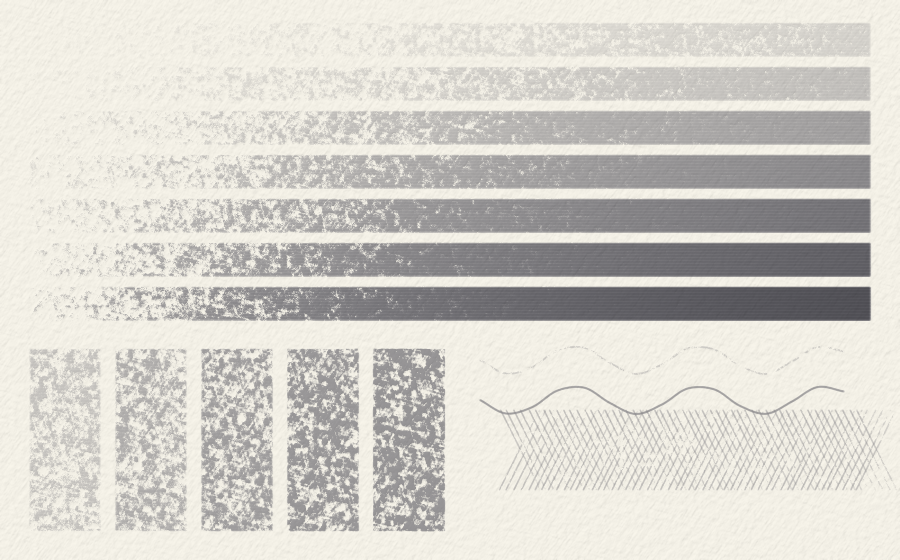
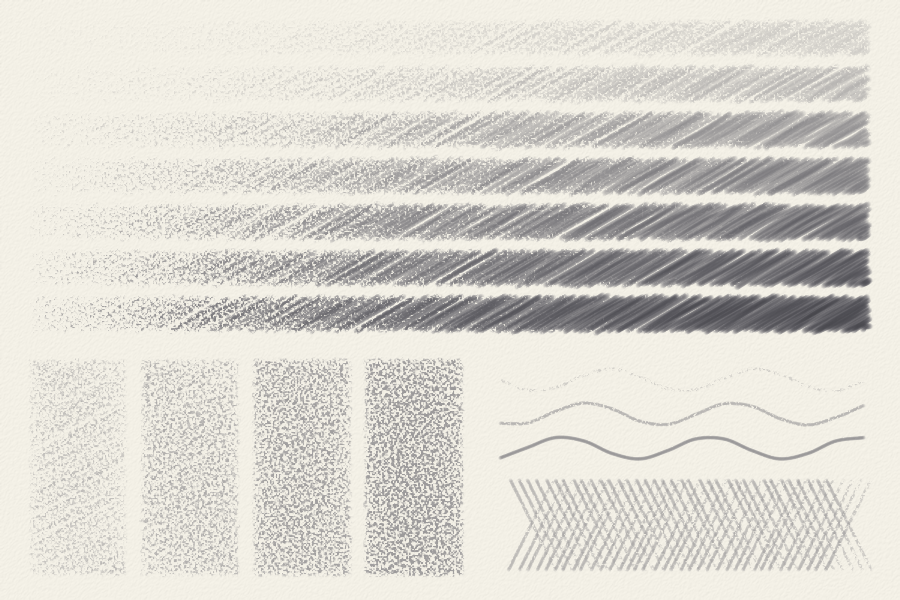
Give wove paper a fine, even tooth, so that shading looks like pencil
Shaded areas came out in blotches: the tooth had patches several grains
across, so the blobs of grain (5 px on average, up to 11) were wider
than the 3 px pencil that drew them. On real paper the tooth is finer
than a pencil line.

- Wove tooth: bumps about a grain apart with short fibres through them,
  and nothing broader. The runs of covered pixels are now about a grain
  wide, and the tooth averaged over a pencil's width is level.
- Scale: a pencil line is two or three grains wide. Default stroke
  width 4 px (was 2); the lamp shows the finer tooth as faintly as
  before (TOOTH_HEIGHT 0.12).
- examples/pencils.py shades as a hand does: strokes side by side at an
  angle, none quite straight or alike, lighter where the pencil lands
  and lifts. A library helper for this is filed as fusain-ujg.

Tones are unchanged: one layer of HB is 0.82 at a light pressure and
0.40 at full pressure (0.84 and 0.40 before).

Claude-Session: https://claude.ai/code/session_01EHReoi1LTNPtq461jGULpV

diff --git a/examples/pencils.py b/examples/pencils.py
@@ -5,8 +5,9 @@ Run from the repository root: ``python examples/pencils.py``. Writes
 
 * top, one band per grade (4H, 2H, HB, 2B, 4B, 6B, 8B from the top), shaded
   with the pressure rising from left to right;
-* bottom left, HB at a light pressure in 1, 2, 4, 8 and 16 layers;
-* bottom right, lines: a 2B drawn lightly then firmly, and cross-hatching.
+* bottom left, HB at a light pressure in 1, 2, 4 and 8 layers, each layer at
+  another angle;
+* bottom right, 2B lines drawn lightly, firmly and hard, and cross-hatching.
 """
 
 from __future__ import annotations
@@ -18,43 +19,71 @@ import numpy as np
 from fusain import Sheet, papers, pencils
 
 GRADES = ("4H", "2H", "HB", "2B", "4B", "6B", "8B")
+#: Width of the pencil's tip, in pixels: about two grains of the paper.
+TIP = 6.0
 
 
-def shade(sheet, medium, pressure, x0, y0, x1, y1, width=3.0, gap=1.5) -> None:
-    """One even layer over a rectangle: strokes side by side, overlapping."""
-    for y in np.arange(y0, y1 + 0.5 * gap, gap):
-        sheet.stroke([(x0, y), (x1, y)], medium, pressure=pressure, width=width)
+def shade(sheet, medium, pressure, box, rng, angle=30.0, width=TIP) -> None:
+    """Shade the rectangle ``box`` (x0, y0, x1, y1) as a hand does: strokes
+    side by side at about ``angle`` degrees, none quite straight or quite
+    alike, each lighter where the pencil lands and where it lifts.
+    ``pressure`` is a number, or a function of x (0 at the left of the box,
+    1 at its right)."""
+    x0, y0, x1, y1 = box
+    turn = np.radians(angle)
+    along = np.array([np.cos(turn), -np.sin(turn)])
+    across = np.array([np.sin(turn), np.cos(turn)])
+    centre = np.array([0.5 * (x0 + x1), 0.5 * (y0 + y1)])
+    reach = 0.5 * np.hypot(x1 - x0, y1 - y0)
+    for offset in np.arange(-reach, reach, 0.55 * width):
+        line = centre + (offset + rng.normal(0, 0.15 * width)) * across
+        ends = [line + s * along for s in np.linspace(-reach, reach, 200)]
+        inside = [p for p in ends if x0 <= p[0] <= x1 and y0 <= p[1] <= y1]
+        if len(inside) < 3:
+            continue
+        start, end = inside[0], inside[-1]
+        knots = max(int(np.hypot(*(end - start)) / 25), 2)
+        path = [
+            start + (end - start) * k / knots + rng.normal(0, 0.1 * width, 2)
+            for k in range(knots + 1)
+        ]
+        firm = rng.uniform(0.85, 1.15)
+
+        def bearing(u, path=path, firm=firm):
+            x = path[0][0] + (path[-1][0] - path[0][0]) * u
+            wanted = pressure((x - x0) / (x1 - x0)) if callable(pressure) else pressure
+            landing = 0.55 + 0.45 * np.sin(np.pi * np.clip(u, 0.02, 0.98)) ** 0.5
+            return np.clip(wanted * firm * landing, 0.0, 1.0)
+
+        sheet.stroke(
+            path, medium, pressure=bearing, width=width * rng.uniform(0.9, 1.1)
+        )
 
 
 def main() -> None:
-    sheet = Sheet(900, 560, paper=papers.CARTRIDGE, seed=11)
-    for row, name in enumerate(GRADES):
-        top = 24 + row * 44
-        shade(
-            sheet,
-            pencils.grade(name),
-            lambda u: 0.05 + 0.95 * u,
-            30,
-            top,
-            870,
-            top + 32,
-        )
-    for i, layers in enumerate((1, 2, 4, 8, 16)):
-        left = 30 + i * 86
-        for _ in range(layers):
-            shade(sheet, pencils.HB, 0.35, left, 350, left + 70, 530)
+    sheet = Sheet(900, 600, paper=papers.CARTRIDGE, seed=11)
     rng = np.random.default_rng(5)
-    for pressure, top in ((0.25, 360), (0.9, 400)):
-        wave = [(480 + 26 * k, top + 14 * np.sin(k * 1.3)) for k in range(15)]
-        sheet.stroke(wave, pencils.B2, pressure=pressure, width=2.5)
+    for row, name in enumerate(GRADES):
+        top = 20 + row * 46
+        box = (30, top, 870, top + 36)
+        shade(sheet, pencils.grade(name), lambda x: 0.05 + 0.95 * x, box, rng)
+    for i, layers in enumerate((1, 2, 4, 8)):
+        left = 30 + i * 112
+        for layer in range(layers):
+            box = (left, 360, left + 96, 575)
+            shade(sheet, pencils.HB, 0.3, box, rng, angle=30 + 47 * layer)
+    for k, pressure in enumerate((0.2, 0.5, 0.95)):
+        wave = [
+            (500 + 28 * j, 380 + 34 * k + 11 * np.sin(j * 1.2 + k)) for j in range(14)
+        ]
+        sheet.stroke(wave, pencils.B2, pressure=pressure)
     for slant in (1, -1):
-        for x in np.arange(500, 860, 7.0):
-            x += rng.normal(0, 0.8)
+        for x in np.arange(510, 830, 9.0):
+            x += rng.normal(0, 1.0)
             sheet.stroke(
-                [(x, 450 + 40 * slant), (x + 40, 450 - 40 * slant)],
+                [(x, 525 + 45 * slant), (x + 45, 525 - 45 * slant)],
                 pencils.HB,
-                pressure=lambda u: 0.7 - 0.4 * u,
-                width=2.0,
+                pressure=lambda u: 0.75 - 0.45 * u,
             )
     out = Path(__file__).parent / "output" / "pencils.png"
     sheet.save(str(out))

diff --git a/fusain/paper.py b/fusain/paper.py
@@ -9,6 +9,7 @@ import numpy as np
 from murex import ColorLike
 from murex import noise as nz
 from murex import spectral as sp
+from murex.filters import box_blur
 
 TEXTURES = ("wove", "laid", "rough", "sanded")
 
@@ -34,8 +35,10 @@ class Paper:
         ``"rough"`` (the bumps of cold-pressed and rough watercolour paper)
         or ``"sanded"`` (the sharp grit of pastel card).
     grain:
-        Size of the tooth in pixels: the width of a fibre bundle, the spacing
-        of the laid lines, the size of a bump or of a grain of grit.
+        Size of the tooth in pixels: the distance between neighbouring bumps
+        of a wove paper, the spacing of the laid lines, the size of a bump of
+        a rough paper or of a grain of grit. This is what sets the scale of a
+        drawing: on drawing paper a pencil line is two or three grains wide.
     depth:
         How deep the tooth is (0 = flat): how far a tip has to reach to touch
         the valleys, how many layers the paper takes, and how strongly the
@@ -96,7 +99,20 @@ def _unit(a: np.ndarray) -> np.ndarray:
 
 
 def _wove(h, w, grain, rng) -> np.ndarray:
-    return nz.paper(h, w, grain, rng)
+    """Felted fibres: small bumps about ``grain`` apart with short fibres
+    running through them, and nothing broader: at the scale of a pencil line
+    the sheet is even."""
+    bumps = nz.value_noise_2d(h, w, max(0.5 * grain, 1.0), rng)
+    fibres = sum(
+        nz.aniso_noise(h, w, 3.0 * grain, max(0.5 * grain, 1.0), angle, rng, octaves=1)
+        for angle in (20, 80, 140)
+    )
+    return _no_broad(0.6 * bumps + 0.4 * fibres / 3, grain)
+
+
+def _no_broad(a: np.ndarray, grain: float) -> np.ndarray:
+    """``a`` without what varies over more than a few ``grain``."""
+    return a - box_blur(a, max(round(1.5 * grain), 1))
 
 
 def _laid(h, w, grain, rng) -> np.ndarray:

diff --git a/fusain/sheet.py b/fusain/sheet.py
@@ -24,7 +24,7 @@ DEFAULT_LIGHT = (-0.6, -0.8, 2.4)
 #: Share of the light that comes from all around rather than from the lamp.
 AMBIENT = 0.3
 #: Height of the deepest tooth of a paper of depth 1, as a share of its grain.
-TOOTH_HEIGHT = 0.3
+TOOTH_HEIGHT = 0.12
 #: Rows rendered at a time (bounds the float64 working memory).
 ROWS = 64
 
@@ -120,7 +120,7 @@ class Sheet:
         path,
         medium: Medium,
         pressure: Profile = 0.5,
-        width: float = 2.0,
+        width: float = 4.0,
     ) -> float:
         """Draw one pass of ``medium`` along ``path``.
 
@@ -130,7 +130,9 @@ class Sheet:
         tone: a light touch marks only the peaks of the tooth, a firm one
         reaches the valleys. A number, one value per point of the path, or a
         function of u (0 at the start of the stroke, 1 at its end).
-        ``width`` is the width of the tip in pixels.
+        ``width`` is the width of the tip in pixels. A pencil point is a few
+        times wider than the paper's grain; one narrower than the grain draws
+        a dotted line.
 
         Returns the volume of medium laid, which is what the tip lost.
 

diff --git a/tests/test_paper.py b/tests/test_paper.py
@@ -42,6 +42,18 @@ def test_grain_sets_the_size_of_the_tooth():
         assert step[0] > 1.5 * step[1], texture
 
 
+def test_wove_paper_is_even_at_the_scale_of_a_pencil_line():
+    # (broad patches of high and low tooth made shading come out in blotches
+    # wider than the pencil that drew it)
+    tooth = _tooth(Paper(texture="wove", grain=3.0)).astype(np.float64)
+    blocks = tooth[:120, :160].reshape(10, 12, 16, 10).mean(axis=(1, 3))
+    assert blocks.std() < 0.02 and tooth.std() > 0.15
+    # its bumps are about a grain across: the runs of high ground along a row
+    high = np.pad(tooth > 0.5, ((0, 0), (1, 1)))
+    starts = (~high[:, :-1] & high[:, 1:]).sum()
+    assert 2.0 < high.sum() / starts < 4.5
+
+
 def test_rough_paper_has_broader_bumps_than_wove_of_the_same_grain():
     wove = _tooth(Paper(texture="wove", grain=4.0))
     rough = _tooth(Paper(texture="rough", grain=4.0))

diff --git a/tests/test_graphite.py b/tests/test_graphite.py
@@ -51,7 +51,7 @@ def _shaded(medium, pressure, layers=1, paper=papers.CARTRIDGE) -> Sheet:
 def test_a_light_touch_marks_the_peaks_and_leaves_the_valleys_white():
     sheet = _shaded(pencils.HB, 0.3)
     tooth, pigment = sheet.tooth[INSIDE], sheet.pigment()[INSIDE]
-    marked = pigment > 0
+    marked = sheet.cover[INSIDE] > 0.5  # at least half covered
     assert 0.25 < marked.mean() < 0.75
     assert tooth[marked].mean() > tooth[~marked].mean() + 0.2
     low, high = tooth < np.quantile(tooth, 0.25), tooth > np.quantile(tooth, 0.75)

diff --git a/README.md b/README.md
@@ -22,15 +22,18 @@ from fusain import Sheet, papers, pencils
 
 sheet = Sheet(800, 600, paper=papers.CARTRIDGE, seed=1)
 sheet.stroke([(100, 300), (300, 220), (500, 320)], pencils.B2, pressure=0.6)
-sheet.stroke([(120, 400), (480, 380)], pencils.HB, pressure=lambda u: 1 - u, width=3)
+sheet.stroke([(120, 400), (480, 380)], pencils.HB, pressure=lambda u: 1 - u, width=6)
 sheet.save("drawing.png")
 ```
 
 ![Graphite pencils on cartridge paper](examples/output/pencils.png)
 
 Top: 4H, 2H, HB, 2B, 4B, 6B and 8B, each shaded with the pressure rising from
-left to right. Bottom left: HB at a light pressure in 1, 2, 4, 8 and 16
-layers. Bottom right: a 2B line drawn lightly, then firmly, and cross-hatching.
+left to right. Bottom left: HB at a light pressure in 1, 2, 4 and 8 layers.
+Bottom right: 2B lines drawn lightly, firmly and hard, and cross-hatching.
+
+Sizes are in pixels, and the paper's `grain` sets the scale: a pencil line is
+two or three grains wide.
 
 ![The papers under a raking light](examples/output/papers.png)
 

diff --git a/docs/design.md b/docs/design.md
@@ -48,6 +48,11 @@ The difference between them is what can still move: a stump, an eraser or a
 later stroke shifts `loose`; only a hard eraser or a blade touches `held`.
 Pressure moves pigment from `loose` to `held`. So does fixative.
 
+Sizes are in pixels, and the paper's grain sets the scale of a drawing: the
+tooth of a drawing paper is finer than a pencil line, which is two or three
+grains wide. (The first version of the tooth had patches several grains
+across, and shading came out in blotches wider than the pencil.)
+
 The paper itself is described by a `Paper` (texture, tooth size in pixels,
 depth of the tooth, how abrasive it is, how much it gives under a tip, colour), with presets such as
 cartridge paper, hot-pressed, cold-pressed, laid (Ingres) and sanded pastel

diff --git a/CHANGELOG.md b/CHANGELOG.md
@@ -11,6 +11,8 @@ and the project adheres to [Semantic Versioning](https://semver.org/).
 - Graphite pencils, `fusain.pencils`, from 9H to 9B, and `Sheet.stroke`: the
   tone depends on the grade, the pressure and the number of layers; a light
   touch marks only the peaks of the tooth, and the tooth fills up.
+- Wove papers have a fine, even tooth, about `grain` pixels from bump to
+  bump, so that shading no longer comes out in blotches wider than the pencil.
 - `Medium`: what a stick is made of (pigment, softness, binding).
 - `Paper.give`: how much the surface yields under a tip.
 - `Paper` and the presets of `fusain.papers`: wove, laid, rough and sanded
